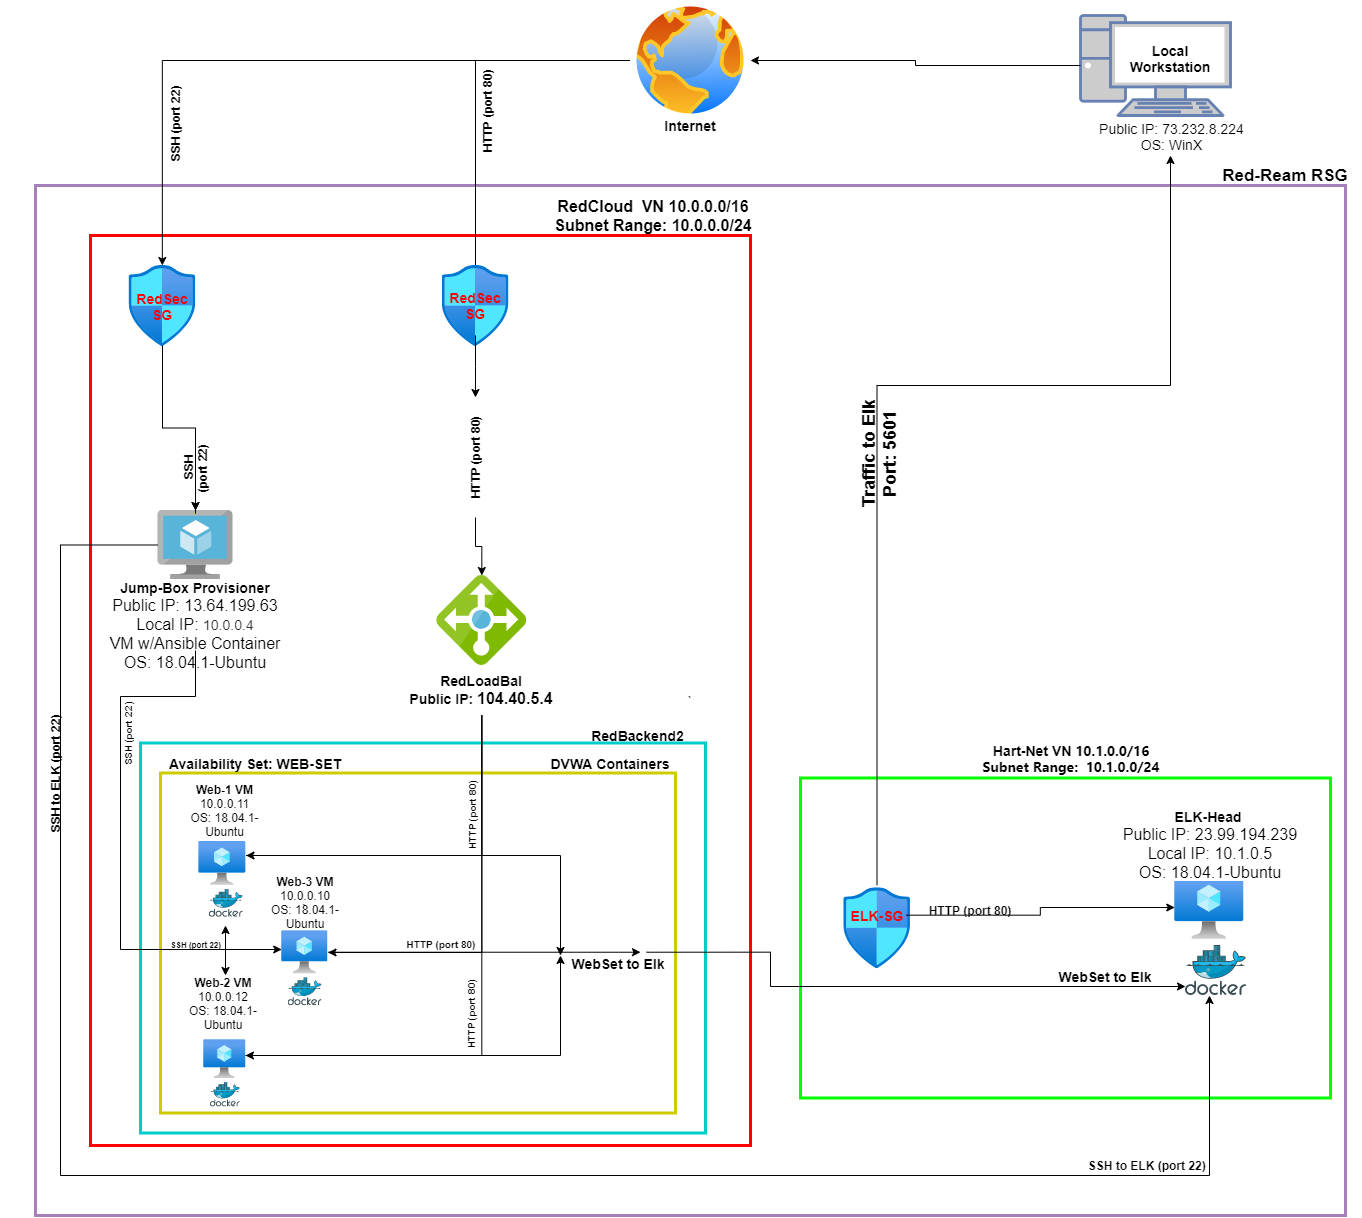
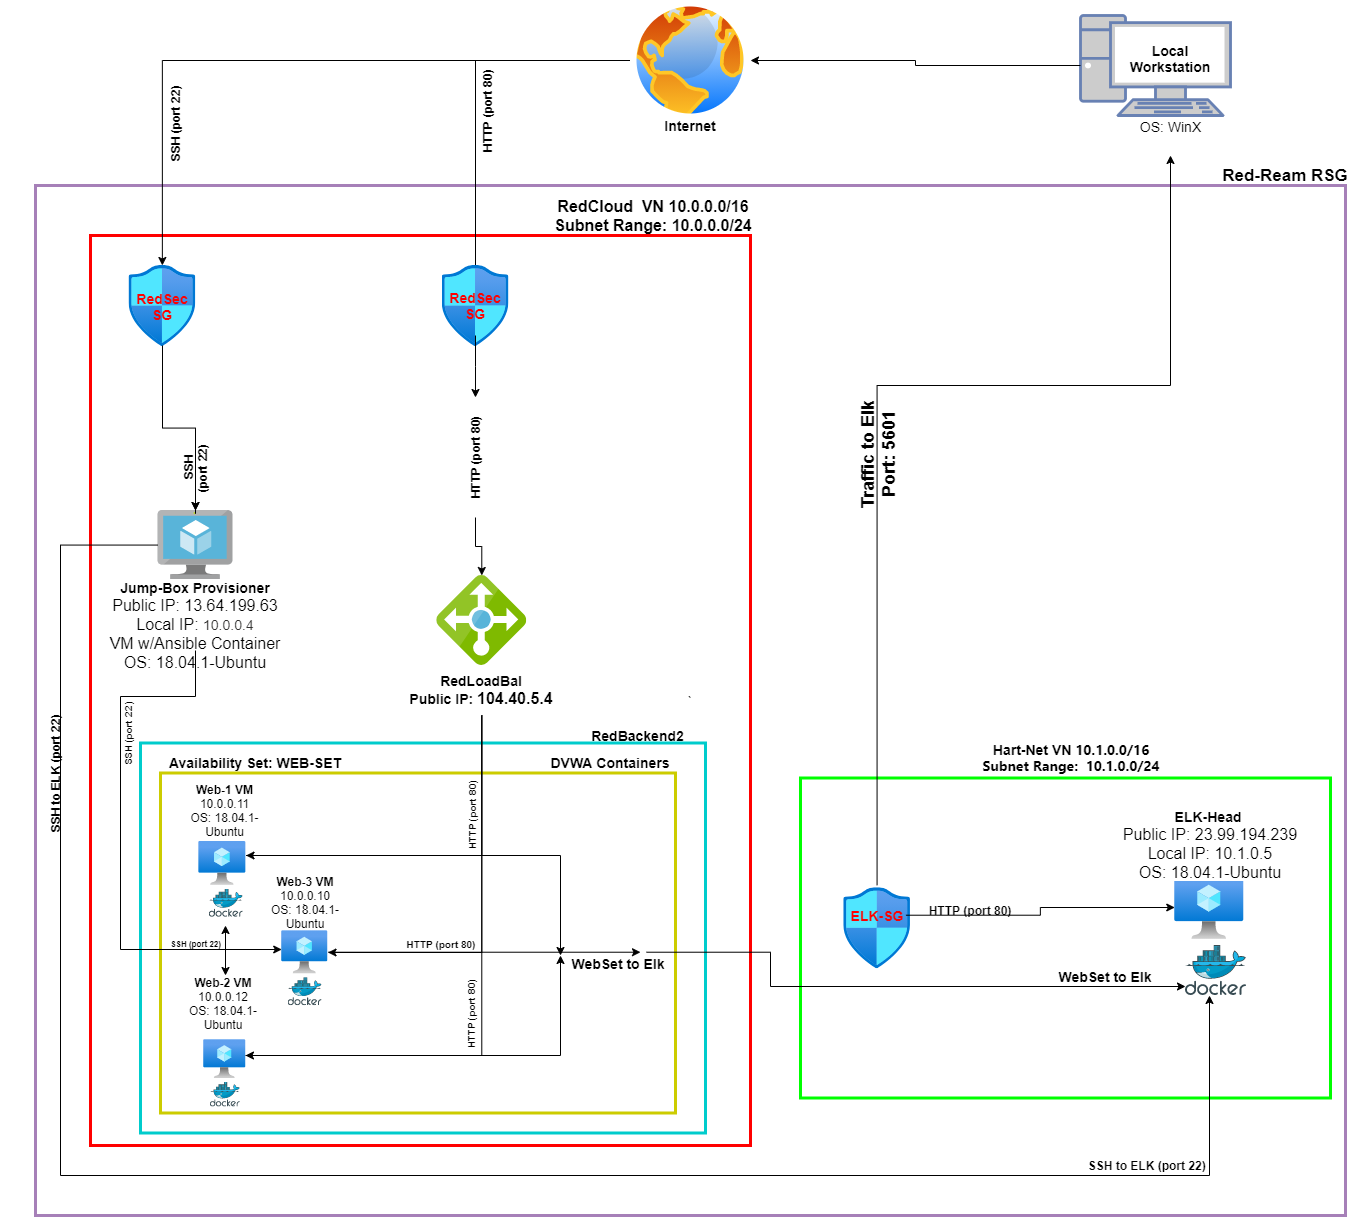
Commit v1.4

diff --git a/README.md b/README.md
@@ -47,7 +47,7 @@ The configuration details of each machine may be found below.
 The machines on the internal network are not exposed to the public Internet. 
 
 Only the Jump-Box Provisioner can accept connections from the Internet. Access to this machine is only allowed from the following IP address:
-- Local Workstation: 73.232.8.224
+- Local Workstation: Local IP
 This connection is secured using my local workstation's public ssh key
 
 Machines within the network can only be accessed by the ansible container located on the jump box.
@@ -57,7 +57,7 @@ A summary of the access policies in place can be found in the table below.
 
 | Name     | Publicly Accessible | Allowed IP Addresses |
 |----------|---------------------|----------------------|
-| Jump-Box |        Yes          |     73.232.8.224     |
+| Jump-Box |        Yes          |      Local IP        |
 | Elk-Head |         No          |      10.0.0.4        |
 | Web-1    |         No          |      10.0.0.11       |
 | Web-2    |         No          |      10.0.0.12       |
